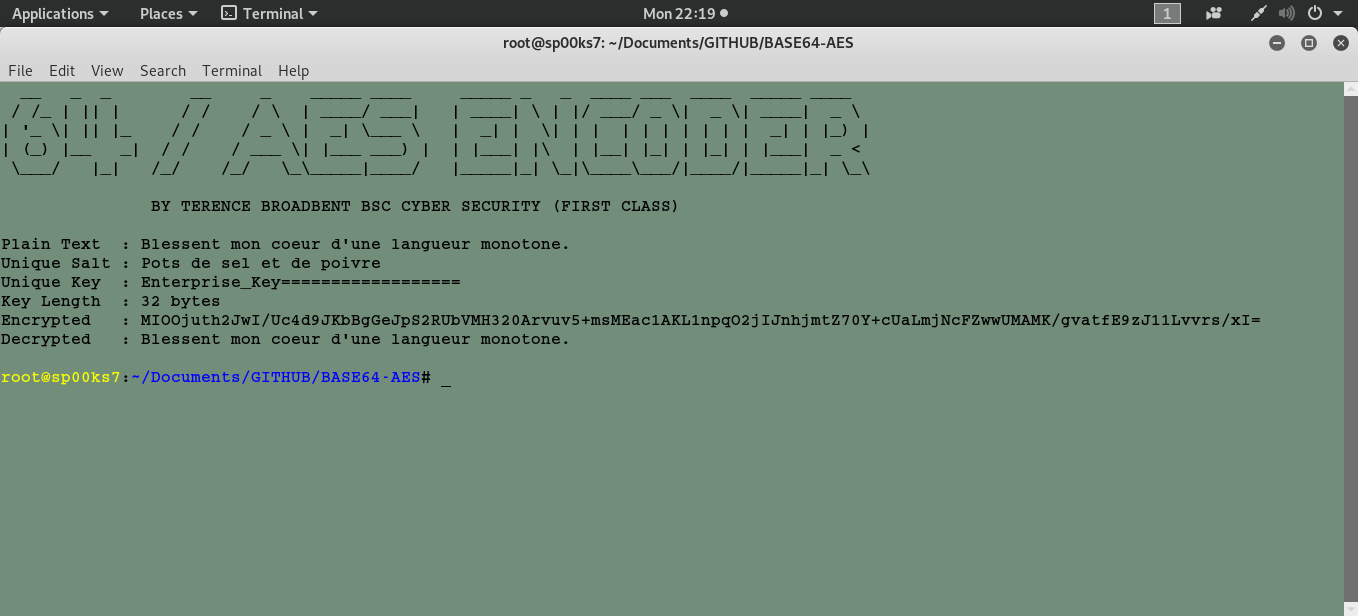
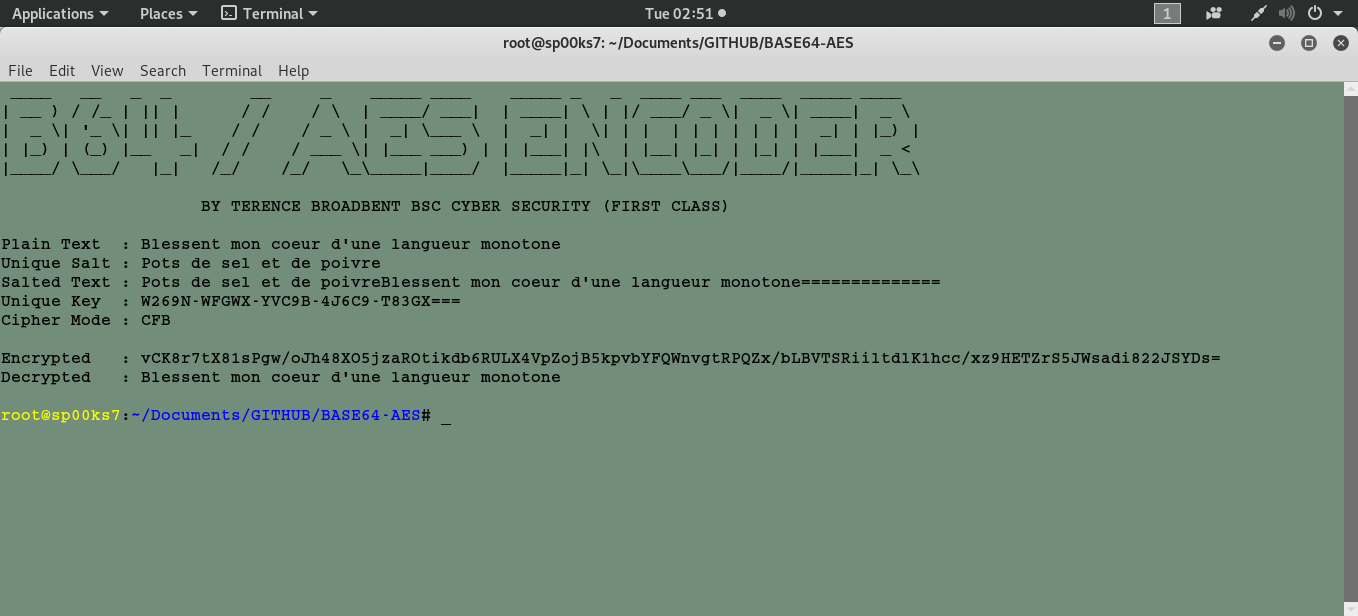
changes

diff --git a/base64_aes.py b/base64_aes.py
@@ -16,7 +16,6 @@
 
 import os
 import base64
-import hashlib
 from Crypto import Random
 from Crypto.Cipher import AES
 
@@ -24,18 +23,18 @@ from Crypto.Cipher import AES
 # AUTHOR  : Terence Broadbent                                                    
 # CONTRACT: GitHub                                                               
 # Version : 2.0                                                                
-# Details : Display my universal header.    
+# Details : Display universal header.
 # Modified: N/A                                                               
 # -------------------------------------------------------------------------------------
 
 os.system("clear")
-print "  __   _  _        __     _    _____ ____     _____ _   _  ____ ___  ____  _____ ____   "
-print " / /_ | || |      / /    / \  | ____/ ___|   | ____| \ | |/ ___/ _ \|  _ \| ____|  _ \  "
-print "| '_ \| || |_    / /    / _ \ |  _| \___ \   |  _| |  \| | |  | | | | | | |  _| | |_) | "
-print "| (_) |__   _|  / /    / ___ \| |___ ___) |  | |___| |\  | |__| |_| | |_| | |___|  _ <  "
-print " \___/   |_|   /_/    /_/   \_\_____|____/   |_____|_| \_|\____\___/|____/|_____|_| \_\ "
-print "                                                                                        " 
-print "               BY TERENCE BROADBENT BSC CYBER SECURITY (FIRST CLASS)                  \n"
+print " ____   __   _  _        __     _    _____ ____    _____ _   _  ____ ___  ____  _____ ____   " 
+print "| __ ) / /_ | || |      / /    / \  | ____/ ___|  | ____| \ | |/ ___/ _ \|  _ \| ____|  _ \  "
+print "|  _ \| '_ \| || |_    / /    / _ \ |  _| \___ \  |  _| |  \| | |  | | | | | | |  _| | |_) | "
+print "| |_) | (_) |__   _|  / /    / ___ \| |___ ___) | | |___| |\  | |__| |_| | |_| | |___|  _ <  "
+print "|____/ \___/   |_|   /_/    /_/   \_\_____|____/  |_____|_| \_|\____\___/|____/|_____|_| \_\ "
+print "                                                                                             " 
+print "                    BY TERENCE BROADBENT BSC CYBER SECURITY (FIRST CLASS)                  \n"
 
 # ------------------------------------------------------------------------------------- 
 # AUTHOR  : Terence Broadbent                                                    
@@ -45,13 +44,17 @@ print "               BY TERENCE BROADBENT BSC CYBER SECURITY (FIRST CLASS)     
 # Modified: N/A
 # -------------------------------------------------------------------------------------
  
-plainText  = "Blessent mon coeur d'une langueur monotone."
+plainText  = "Blessent mon coeur d'une langueur monotone"
 uniqueSalt = 'Pots de sel et de poivre'
-uniqueKey  = 'Enterprise_Key'
-bytes      = 32                         # Must be 16, 24 or 32 bytes in length.
+secretText =  uniqueSalt + plainText
+uniqueKey  = 'W269N-WFGWX-YVC9B-4J6C9-T83GX'
+
+bytes   = 16					# 16, 24 or 32 bytes for uniqueKey.
+padding = "="					# Add appropriate padding.
 while len(uniqueKey) % bytes:
-   uniqueKey = uniqueKey + "="          # Add appropriate padding.
-codedMessage = plainText + uniqueSalt
+   uniqueKey = uniqueKey + padding
+while len(secretText) % bytes:			# 16 or 32 bytes for secretMessage.
+   secretText = secretText + padding
 
 # ------------------------------------------------------------------------------------- 
 # AUTHOR  : Terence Broadbent                                                    
@@ -63,8 +66,9 @@ codedMessage = plainText + uniqueSalt
 
 print "Plain Text  : " + plainText
 print "Unique Salt : " + uniqueSalt
+print "Salted Text : " + secretText
 print "Unique Key  : " + uniqueKey
-print "Key Length  : " + str(bytes) + " bytes"
+print "Cipher Mode : CFB\n"			# ECB, CBC, PCBC, CFB, OFB, CTR modes
 
 # ------------------------------------------------------------------------------------- 
 # AUTHOR  : Terence Broadbent                                                    
@@ -74,9 +78,13 @@ print "Key Length  : " + str(bytes) + " bytes"
 # Modified: N/A
 # -------------------------------------------------------------------------------------
 
-iv = Random.new().read(AES.block_size)
-cipher = AES.new(uniqueKey, AES.MODE_CFB, iv)
-encrypted = base64.b64encode(iv + cipher.encrypt(codedMessage))
+#cipher = AES.new(uniqueKey, AES.MODE_ECB)	# ECB mode
+
+iv = Random.new().read(AES.block_size)		# CFB mode
+cipher = AES.new(uniqueKey, AES.MODE_CFB, iv)	# CFB mode
+
+cipher = cipher.encrypt(secretText)		# Both
+encrypted = base64.b64encode(cipher)		# Both
 print "Encrypted   : " + encrypted
 
 # ------------------------------------------------------------------------------------- 
@@ -87,10 +95,17 @@ print "Encrypted   : " + encrypted
 # Modified: N/A
 # -------------------------------------------------------------------------------------
 
-encrypted = base64.b64decode(encrypted)
-iv = encrypted[:AES.block_size]
-cipher = AES.new(uniqueKey, AES.MODE_CFB, iv)
-decrypted = cipher.decrypt(encrypted[AES.block_size:])
-print "Decrypted   : " + decrypted.rstrip(uniqueSalt) + "\n"
+decrypted = base64.b64decode(encrypted)		# Both
+
+#decipher = AES.new(uniqueKey, AES.MODE_ECB)	# ECB mode
+#plainText = decipher.decrypt(decrypted)		# ECB mode
+
+iv = decrypted[:AES.block_size]			# CFB mode
+cipher = AES.new(uniqueKey, AES.MODE_CFB, iv)	# CFB mode
+plainText = cipher.decrypt(decrypted[AES.block_size:])
+
+print "Decrypted   : " + plainText.lstrip(uniqueSalt).rstrip(padding) + "\n"
+
+
 
 

diff --git a/README.md b/README.md
@@ -5,7 +5,9 @@ Usage: python base64_aes.py
 
 | LANGUAGE | FILENAME      | MD5 HASH                         |
 |------    |------         | -------                          |
-| python   | base64_aes.py | 5204058f2118623722e7ebde85a7f18f |
+| python   | base64_aes.py | b0b309b95f900518ad50c4715afb4bb7 |
+
+Currently has 2 modes - ECB and CFB.
 
 ## CONSOLE DISPLAY
 ![Screenshot](picture1.png)
